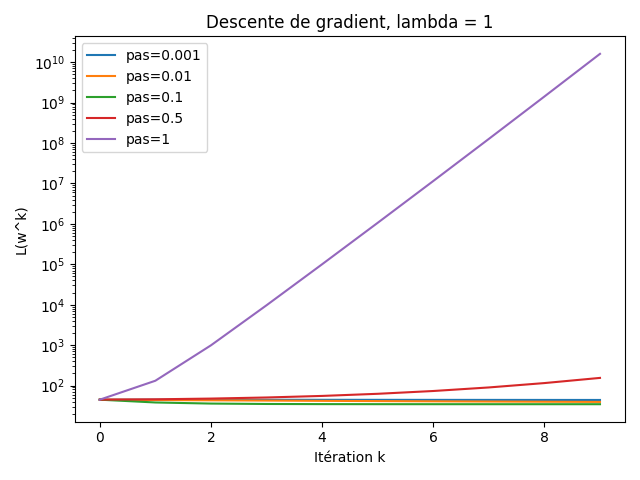
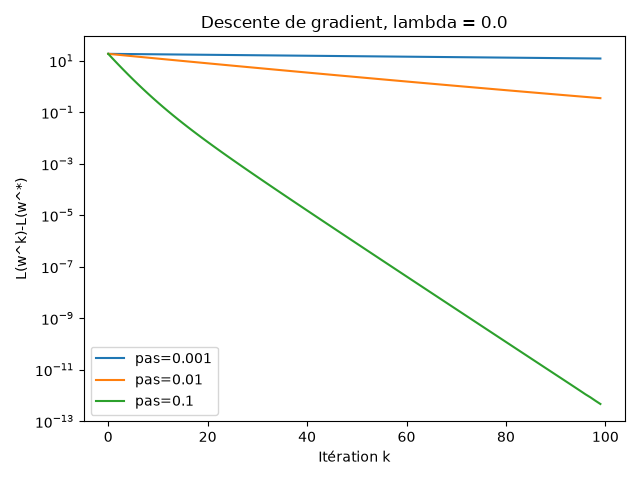
jeuAfertig

diff --git a/jeu_A.py b/jeu_A.py
@@ -1,35 +1,97 @@
-import numpy as np
+import estimators as est
 import matplotlib.pyplot as plt
-import tp_dataset1 as tdb
-import estimators as est  
+import numpy as np
 import optimers as opt
-
+import tp_dataset1 as tdb
 
 #####Question 4
 ### a
 rng = np.random.default_rng(42)
 n, d, noise_std = 1000, 20, 5.0
 
-X, y, w_cons = tdb.make_dataset_A(n, d, noise_std, rng)
+X, y, w_ref = tdb.make_dataset_A(n, d, noise_std, rng)
 
-### b
+###b
 X_train, y_train = X[:500], y[:500]
 X_val, y_val = X[500:], y[500:]
 
 ### c
-lam, w_init, n_iter = 1, np.zeros(d), 10
+lam, w_init, n_iter = 0.0, np.zeros(d), 100
 plt.figure()
-for pas in [1e-3, 1e-2, 1e-1,0.5,1]:
-    w_opt, history = opt.grad_descent(X, y, w_init, lam, pas, n_iter )
-    plt.semilogy(history, label = f"pas={pas}")
+for pas in [1e-3, 1e-2, 1e-1]:
+    w_etoile = est.ridge_estimator(X_train, y_train, lam)
+    lossen, _= opt.loss_grad(X_train, y_train, w_etoile, lam)
+    w_opt, history = opt.grad_descent(X_train, y_train, w_init, lam, pas, n_iter )
+    plt.semilogy(history-lossen, label = f"pas={pas}")
 plt.xlabel("Itération k")
-plt.ylabel("L(w^k)")
+plt.ylabel("L(w^k)-L(w^*)")
 plt.title(f"Descente de gradient, lambda = {lam}")
 plt.legend()
 plt.tight_layout()
 plt.savefig("4c_convergence_pas.png")
 
+###d 
+
+pas0 = 0.05
+plt.figure()
+for lam0 in [0.0, 0.1, 1.0, 5.0]:
+    w_etoile = est.ridge_estimator(X_train, y_train, lam0)
+    lossen, _ = opt.loss_grad(X_train, y_train, w_etoile, lam0)
+    w_opt0, history0 = opt.grad_descent(X_train, y_train, w_init, lam0, pas0, 200)
+    plt.semilogy(history0-lossen + 1e-16, label = f"lambda={lam0}")
+    error_to_ref = np.sum((w_opt0-w_ref)**2)
+    print(print(f"pas={pas0}, lambda={lam0}, error_to_ref={error_to_ref}"))
+plt.xlabel("Itération k")
+plt.ylabel("L(w^k)-L(w^*)")
+plt.title(f"Descente de gradient, pas = {pas0}")
+plt.legend()
+plt.tight_layout()
+plt.savefig("4d_convergence_pas.png") #### On constate que la convergence devient faibe à mesure que lamda augmente
 
 
+print(history.argmin(), history.min())
+print(history0.argmin(), history0.min())
+
+###e
+w_opt0 = opt.grad_descent(X_train, y_train, w_init, 0.0, pas0, 100 )[0]
+w_m = est.ridge_estimator(X_train, y_train, lam = 0.0 )
+error = np.sum((w_opt0-w_m)**2)
+width =0.2
+plt.figure()
+plt.bar(np.arange(d) - width, w_opt.flatten(), width=width, label="Gradient descent")
+plt.bar(np.arange(d) + width, w_m.flatten(), width=width, label="Analytique")
+plt.xlabel("Parameter")
+plt.ylabel("Value")
+plt.title(f"Comparaison poids Ridge vs GD (error={error:.2e})")
+plt.legend()
+plt.savefig("4e_comparaison.png")
+
+###f
+lambdas = [0.0, 1e-4, 1e-3, 1e-2, 1e-1, 1]
+w_mat = np.empty((len(lambdas),d))
+mse_train, mse_val = np.empty(len(lambdas)), np.empty(len(lambdas))
+for i, lam in enumerate(lambdas):
+    w_o, _ = opt.grad_descent(X_train, y_train,w_init, lam, 0.1, 200)
+    w_ov, _ = opt.grad_descent(X_val, y_val,w_init, lam, 0.1, 200)
+    w_mat[i] = w_o
+    mse_train[i], mse_val[i] = np.mean((y_train - X_train @ w_o)**2), np.mean((y_val - X_val @ w_ov)**2)
+
+plt.figure()
+for j in range(d):
+    plt.semilogx(lambdas, w_mat[:,j], marker = "o", label = f"Beta{j}")
+
+plt.xlabel("pas lambda")
+plt.ylabel("Coefficient Beta_j")
+plt.title("Chemins de régularisations")
+plt.savefig("4f_chemins_reg.png")
 
 
+plt.figure()
+plt.semilogx(lambdas, mse_train, label = "MSE entrainement")
+plt.semilogx(lambdas, mse_val, label = "MSE validation")
+#plt.xscale("symlog", linthresh =1e-4)
+plt.xlabel("pas lambda")
+plt.ylabel("mse")
+plt.title("graphe mse")
+plt.legend()
+plt.savefig("4f_msegraph.png")
